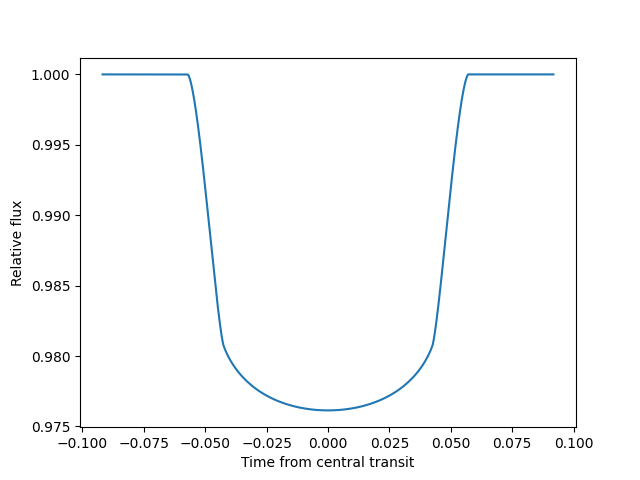
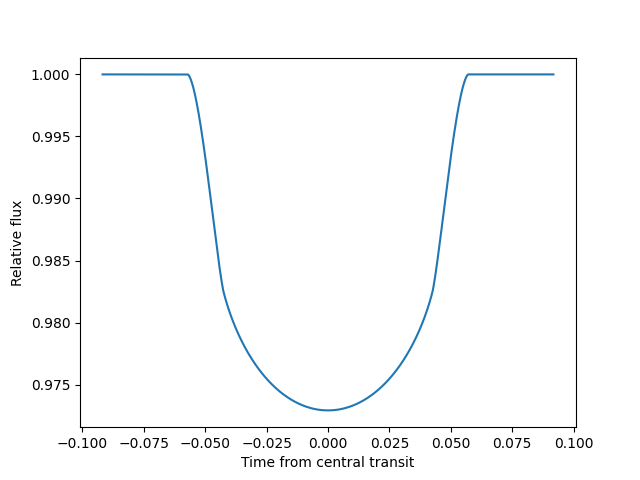
Limb darkening characterization for wasp107-b

diff --git a/src/daneel/detection/transit.py b/src/daneel/detection/transit.py
@@ -1,9 +1,27 @@
 import batman
-from numpy import linspace
+from numpy import linspace, array
 import matplotlib
 from pathlib import Path
-matplotlib.use('Qt5Agg')
+from pandas import read_csv
 import matplotlib.pyplot as plt
+matplotlib.use('Qt5Agg')
+
+
+# This function return the coefficients for the
+# quadratic parametrization of the limb darkening
+def load_limb_coeff(limb_dark_path):
+    # Storing the file information into a dataframe
+    df = read_csv(limb_dark_path, sep='\s+')
+    # Filtering the dataframe to obtain only
+    # the one with a quadratic profile
+    row = df[df["profile"] == "quadratic"]
+    # Mean of the coefficients
+    mean_c1 = array(row["c1"], dtype=float).mean()
+    mean_e1 = array(row["e1"], dtype=float).mean()
+    mean_c2 = array(row["c2"], dtype=float).mean()
+    mean_e2 = array(row["e2"], dtype=float).mean()
+    return mean_c1, mean_e1, mean_c2, mean_e2
+
 
 if __name__ == "__main__":
     # Set a variables containing the absolute
@@ -37,9 +55,12 @@ if __name__ == "__main__":
     # longitude of periastron (in degrees)
     params.w = 90.
     # limb darkening model
-    params.limb_dark = "nonlinear"
-    # limb darkening coefficients [u1, u2, u3, u4]
-    params.u = [0.5, 0.1, 0.1, -0.1]
+    params.limb_dark = "quadratic"
+    # Coefficients limb darkening
+    file_limb_dark = str(Path(path_default, "src", "daneel", "detection", "limb_dark_wasp107b.txt"))
+    c1, e1, c2, e2 = load_limb_coeff(file_limb_dark)
+    # limb darkening coefficients [c1, c2]
+    params.u = [c1, c2]
     # transit time between point 1 and 4 in hours
     t14h = 2.753
     # transit time in days
